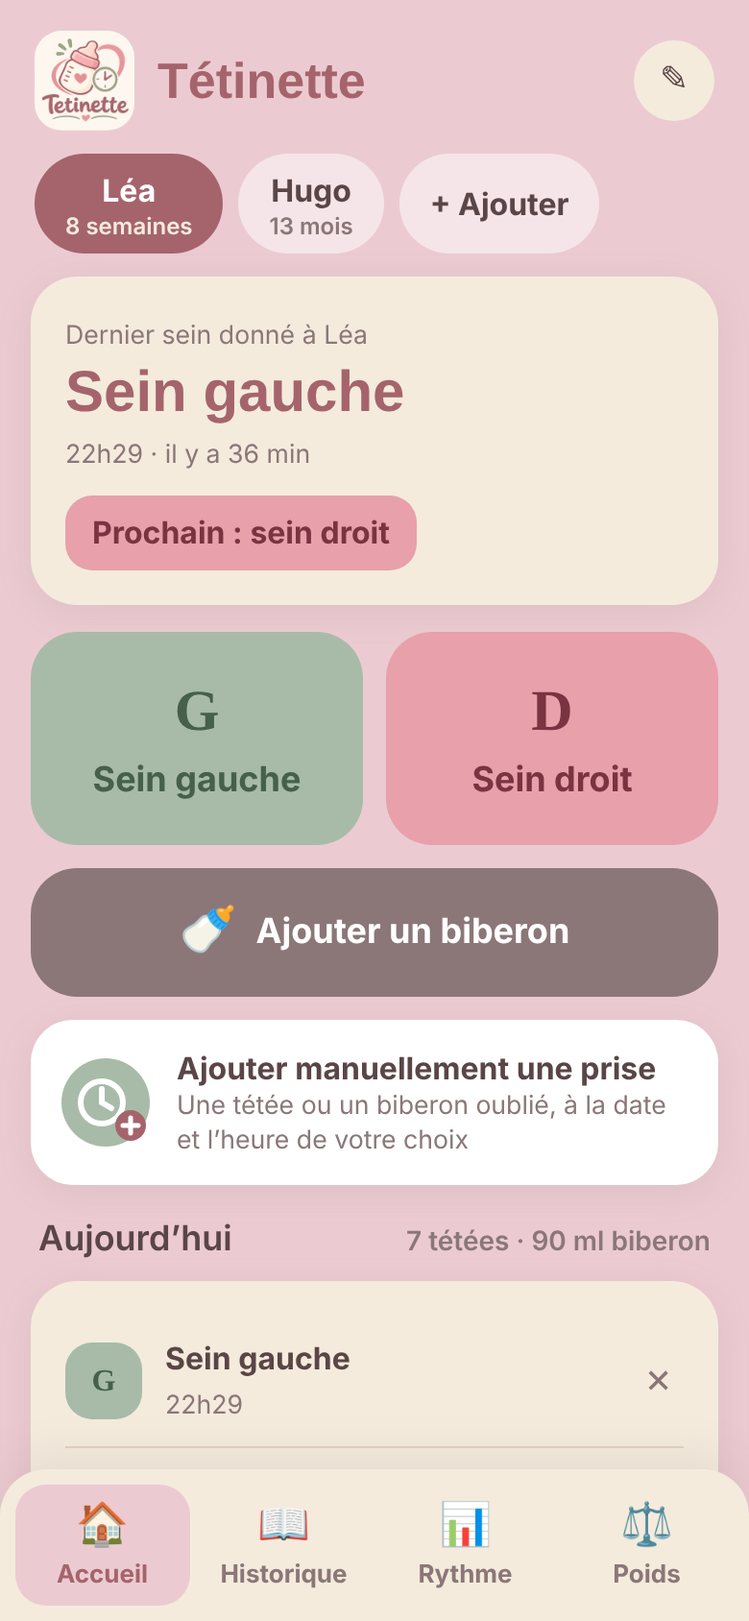
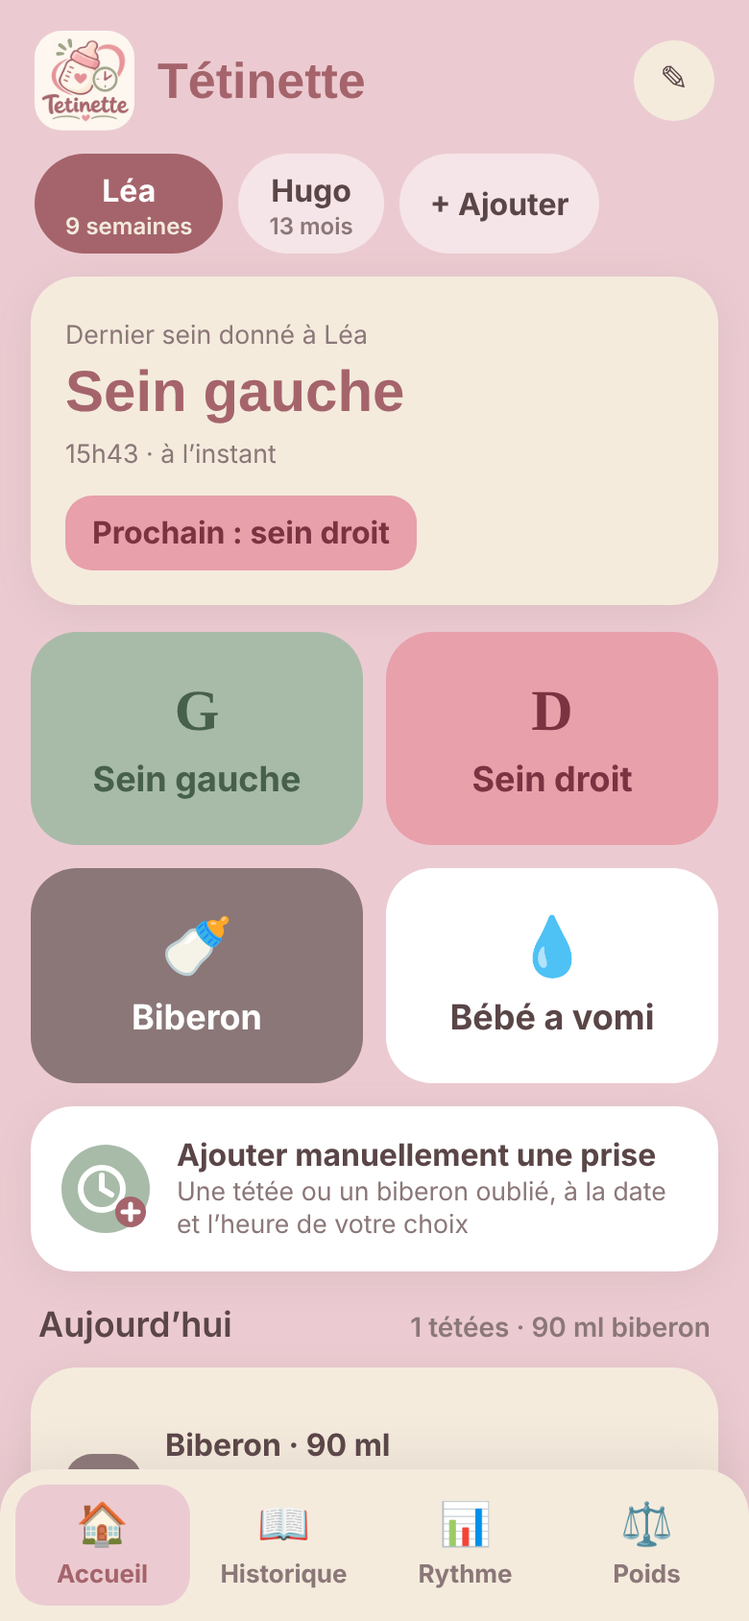
Add files via upload

Changed region(s): [[0.0308, 0.5237, 0.9846, 0.9242], [0.2154, 0.2773, 0.4, 0.3081], [0.0923, 0.2773, 0.1846, 0.3081]]

diff --git a/app/static/index.html b/app/static/index.html
@@ -32,7 +32,7 @@ button{font:inherit;border:0;cursor:pointer;color:inherit}
 .feed{border-radius:24px;padding:20px 10px;font-weight:700;font-size:18px;display:flex;flex-direction:column;align-items:center;gap:2px}
 .feed span{font-size:30px;font-family:Grandstander}
 .feed:active{transform:scale(.97)}
-.L{background:var(--sage);color:var(--sagedk)}.R{background:var(--pink);color:#7A3340}.B{background:var(--taupe);color:#fff}
+.L{background:var(--sage);color:var(--sagedk)}.R{background:var(--pink);color:#7A3340}.B{background:var(--taupe);color:#fff}.V{background:#fff;color:var(--ink)}
 .wide{grid-column:1/3;flex-direction:row;justify-content:center;gap:10px;padding:16px}
 .wide span{font-size:24px}
 .manual{width:100%;display:flex;align-items:center;gap:14px;text-align:left;background:var(--white);border-radius:22px;padding:14px 16px;margin-bottom:6px;box-shadow:0 4px 18px #8b777822}
@@ -74,8 +74,8 @@ nav button.on{background:var(--bg);color:var(--wine)}
 .wchart{border:2px solid #ffffff80;border-radius:24px;padding:10px 6px 6px;margin-bottom:12px}
 .wchart svg{width:100%;height:auto;display:block}
 .wchart .cap{text-align:center;font-weight:700;padding:4px 0 6px}
-input{font:inherit;width:100%;padding:12px 14px;border-radius:14px;border:2px solid var(--line);background:#fff;color:var(--ink)}
-input:focus,button:focus-visible{outline:3px solid var(--wine);outline-offset:2px}
+input,textarea{font:inherit;width:100%;padding:12px 14px;border-radius:14px;border:2px solid var(--line);background:#fff;color:var(--ink)}
+input:focus,textarea:focus,button:focus-visible{outline:3px solid var(--wine);outline-offset:2px}
 label{display:block;font-weight:700;margin:12px 0 6px;font-size:14px;color:var(--taupe)}
 .go{width:100%;margin-top:16px;padding:15px;border-radius:18px;background:var(--wine);color:#fff;font-weight:700;font-size:17px}
 .link{background:none;color:var(--taupe);text-decoration:underline;display:block;margin:10px auto 0;font-weight:600}
@@ -87,6 +87,11 @@ label{display:block;font-weight:700;margin:12px 0 6px;font-size:14px;color:var(-
 .welcome{text-align:center}.welcome img{width:130px;border-radius:30px;margin-bottom:8px}.welcome p{color:var(--taupe)}
 #toast{position:fixed;left:50%;bottom:100px;transform:translateX(-50%);background:var(--ink);color:#fff;padding:12px 18px;border-radius:18px;display:none;gap:14px;align-items:center;z-index:9;white-space:nowrap}
 #toast button{background:none;color:var(--bg);text-decoration:underline;font-weight:700}
+.note{display:block;font-style:italic;color:var(--taupe);margin-top:2px;word-break:break-word}
+.lvs{display:grid;grid-template-columns:1fr 1fr;gap:8px}
+.lv{background:#e9dccb;border-radius:14px;padding:10px 6px;font-weight:700;display:flex;flex-direction:column;gap:2px;align-items:center;font-size:14px}
+.lv.on{outline:3px solid var(--wine);background:#fff}
+.lv i{font-style:normal;letter-spacing:2px;color:var(--wine);font-size:12px}.lv s{text-decoration:none;opacity:.25}
 .empty{color:var(--taupe);text-align:center;padding:16px 0}
 @media (prefers-reduced-motion:no-preference){.feed,.go{transition:transform .12s}}
 </style>
@@ -108,6 +113,8 @@ const today=()=>ymd(new Date());
 const dayKey=ts=>ts.slice(0,10), hhmm=ts=>ts.slice(11,16).replace(':','h');
 const fmtD=k=>{const d=new Date(k+'T12:00');return`${d.getDate()} ${MOIS[d.getMonth()]}`};
 const fmtDY=k=>`${fmtD(k)} ${k.slice(0,4)}`;
+const E=s=>String(s??'').replace(/[&<>"']/g,c=>({'&':'&amp;','<':'&lt;','>':'&gt;','"':'&quot;',"'":'&#39;'}[c]));
+const LV=['','Une régurgitation','Petite quantité','Quantité moyenne','Grande quantité'];
 const sideName=s=>s==='L'?'Sein gauche':'Sein droit';
 function dayLabel(k){if(k===today())return"Aujourd’hui";if(k===addD(today(),-1))return"Hier";
  return new Date(k+'T12:00').toLocaleDateString('fr-FR',{weekday:'long'})+' '+fmtD(k)}
@@ -133,33 +140,32 @@ async function load(){S=await (await fetch('/api/data')).json();
 async function api(m,u,b){const r=await fetch(u,{method:m,headers:{'Content-Type':'application/json'},body:b?JSON.stringify(b):undefined});return r.json()}
 function pick(id){B=id;try{localStorage.setItem('baby',id)}catch(e){}Rt.sel=null;Rt.scroll=null;Wt.sel=null;render()}
 
-const IC={L:'G',R:'D',B:'🍼'};
-const kindOf=e=>e.kind==='bottle'?'B':e.side;
+const IC={L:'G',R:'D',B:'🍼',V:'💧'};
+const kindOf=e=>e.kind==='bottle'?'B':e.kind==='vomit'?'V':e.side;
 function evRow(e){const k=kindOf(e);
- const title=e.kind==='bottle'?`Biberon · ${e.ml} ml`:sideName(e.side);
+ const title=e.kind==='bottle'?`Biberon · ${e.ml} ml`:e.kind==='vomit'?`Vomi · ${LV[e.level].toLowerCase()}`:sideName(e.side);
  const sub=e.kind==='bottle'?(e.milk==='maternel'?'Lait maternel':'Lait artificiel'):'';
- return`<div class="row"><div class="dot ${k}">${IC[k]}</div><div class="t"><b>${title}</b><small>${hhmm(e.ts)}${sub?' · '+sub:''}</small></div><button class="x" aria-label="Supprimer" onclick="del(${e.id})">×</button></div>`}
+ return`<div class="row"><div class="dot ${k}">${IC[k]}</div><div class="t" role="button" tabindex="0" onclick="openEdit(${e.id})" style="cursor:pointer"><b>${title}</b><small>${hhmm(e.ts)}${sub?' · '+sub:''}</small>${e.note?`<span class="note">${E(e.note)}</span>`:''}</div><button class="x" aria-label="Supprimer" onclick="del(${e.id})">×</button></div>`}
 async function del(id){if(confirm('Supprimer cette entrée ?')){await api('DELETE','/api/events/'+id);load()}}
 async function delW(id){if(confirm('Supprimer cette pesée ?')){await api('DELETE','/api/weights/'+id);Wt.sel=null;load()}}
-function toast(msg,undoId){const t=$('#toast');t.innerHTML=`${msg}${undoId?'<button id="undo">Annuler</button>':''}`;t.style.display='flex';
+function toast(msg,undoId){const t=$('#toast');t.innerHTML=`${msg}${undoId?'<button id="undo">Annuler</button><button id="note">Ajouter une note</button>':''}`;t.style.display='flex';
+ if(undoId)$('#note').onclick=()=>{t.style.display='none';openEdit(undoId)};
  if(undoId)$('#undo').onclick=async()=>{await api('DELETE','/api/events/'+undoId);t.style.display='none';load()};
- clearTimeout(t._h);t._h=setTimeout(()=>t.style.display='none',5000)}
-async function quick(side){await api('POST','/api/events',{ts:iso(new Date()),kind:'breast',side,baby_id:B});await load();
- toast(`${sideName(side)} enregistré`,Math.max(...ev().map(e=>e.id)))}
+ clearTimeout(t._h);t._h=setTimeout(()=>t.style.display='none',6500)}
 
 function header(){const b=baby();
  return`<div class="top"><img src="/logo.png" alt=""><h1>Tétinette</h1>${b?`<button class="icon" aria-label="Modifier le profil" onclick="babySheet(${b.id})">✎</button>`:''}</div>
- <div class="chips">${S.babies.map(x=>`<button class="chip ${x.id===B?'on':''}" onclick="pick(${x.id})">${x.name}${x.birth?`<small>${ageStr(x.birth)}</small>`:''}</button>`).join('')}<button class="chip" onclick="babySheet(null)">+ Ajouter</button></div>`}
+ <div class="chips">${S.babies.map(x=>`<button class="chip ${x.id===B?'on':''}" onclick="pick(${x.id})">${E(x.name)}${x.birth?`<small>${ageStr(x.birth)}</small>`:''}</button>`).join('')}<button class="chip" onclick="babySheet(null)">+ Ajouter</button></div>`}
 
 function home(){
  const feeds=ev().filter(e=>e.kind==='breast'),last=feeds[0],td=today(),te=ev().filter(e=>dayKey(e.ts)===td);
- const ml=sum(te.filter(e=>e.kind==='bottle'),e=>e.ml),n=baby()?.name||'';
+ const ml=sum(te.filter(e=>e.kind==='bottle'),e=>e.ml),n=E(baby()?.name);
  let h='';
  if(last){const nx=last.side==='L'?'R':'L';
   h+=`<div class="card last"><small>Dernier sein donné à ${n}</small><div class="big">${sideName(last.side)}</div><small>${hhmm(last.ts)} · ${ago(last.ts)}</small><br><span class="next ${nx}">Prochain : ${sideName(nx).toLowerCase()}</span></div>`}
  else h+=`<div class="card empty">Aucune tétée pour ${n}. Touchez un bouton pour commencer.</div>`;
- h+=`<div class="btns"><button class="feed L" onclick="quick('L')"><span>G</span>Sein gauche</button><button class="feed R" onclick="quick('R')"><span>D</span>Sein droit</button>
- <button class="feed B wide" onclick="openSheet('B')"><span>🍼</span>Ajouter un biberon</button></div>
+ h+=`<div class="btns"><button class="feed L" onclick="openSheet('L')"><span>G</span>Sein gauche</button><button class="feed R" onclick="openSheet('R')"><span>D</span>Sein droit</button>
+ <button class="feed B" onclick="openSheet('B')"><span>🍼</span>Biberon</button><button class="feed V" onclick="openSheet('V')"><span>💧</span>Bébé a vomi</button></div>
  <button class="manual" onclick="openSheet('L')"><svg viewBox="0 0 46 46"><circle cx="23" cy="23" r="23" fill="#A8BBA9"/><circle cx="21" cy="23" r="11" fill="none" stroke="#fff" stroke-width="3"/><path d="M21 16v7l5 3" fill="none" stroke="#fff" stroke-width="3" stroke-linecap="round"/><circle cx="36" cy="35" r="8" fill="#A5646B"/><path d="M36 31v8M32 35h8" stroke="#fff" stroke-width="2.5" stroke-linecap="round"/></svg>
  <span><b>Ajouter manuellement une prise</b><small>Une tétée ou un biberon oublié, à la date et l’heure de votre choix</small></span></button>
  <div class="day">Aujourd’hui<small>${te.filter(e=>e.kind==='breast').length} tétées${ml?` · ${ml} ml biberon`:''}</small></div>
@@ -189,24 +195,25 @@ function buckets(mode){const t=today(),out=[];
   b.L=b.es.filter(e=>e.side==='L').length;b.R=b.es.filter(e=>e.side==='R').length;
   b.mat=sum(b.es.filter(e=>e.milk==='maternel'),e=>e.ml);b.art=sum(b.es.filter(e=>e.milk==='artificiel'),e=>e.ml)});
  return out}
-function summary(es,nd){const br=es.filter(e=>e.kind==='breast'),g=gaps(es);
+function summary(all,nd){const es=all.filter(e=>e.kind!=='vomit'),vo=all.filter(e=>e.kind==='vomit'),br=es.filter(e=>e.kind==='breast'),g=gaps(es);
+ const vl=vo.length?`<div class="soft" style="margin:-4px 4px 12px">💧 ${vo.length} vomi${vo.length>1?'s':''} (${[1,2,3,4].filter(l=>vo.some(v=>v.level===l)).map(l=>vo.filter(v=>v.level===l).length+' · '+LV[l].toLowerCase()).join(', ')})</div>`:'';
  const L=br.filter(e=>e.side==='L').length,R=br.length-L,mat=sum(es.filter(e=>e.milk==='maternel'),e=>e.ml),art=sum(es.filter(e=>e.milk==='artificiel'),e=>e.ml);
  const c=(v,l)=>`<div class="stat"><div class="big">${v}</div><small>${l}</small></div>`;
  return`<div class="stats">${c(br.length,`tétées (G ${L} · D ${R})`)}${c(mat+art+' ml',`biberons (mat. ${mat} · art. ${art})`)}${c(g.length?dur(avg(g)):'–','écart moyen entre prises')}
- ${nd>1?c((br.length/nd).toFixed(1),'tétées par jour')+c(((mat+art)/nd).toFixed(0)+' ml','biberon par jour')+c(g.length?dur(Math.max(...g)):'–','plus longue pause'):c(es.length,'prises au total')+c(g.length?dur(Math.max(...g)):'–','plus longue pause')+c(es.length?hhmm(es.reduce((a,e)=>e.ts>a.ts?e:a).ts):'–','dernière prise')}</div>`}
+ ${nd>1?c((br.length/nd).toFixed(1),'tétées par jour')+c(((mat+art)/nd).toFixed(0)+' ml','biberon par jour')+c(g.length?dur(Math.max(...g)):'–','plus longue pause'):c(es.length,'prises au total')+c(g.length?dur(Math.max(...g)):'–','plus longue pause')+c(es.length?hhmm(es.reduce((a,e)=>e.ts>a.ts?e:a).ts):'–','dernière prise')}</div>${vl}`}
 
 function rhythm(){
  const modes=[['day','Jour'],['days','Jours'],['weeks','Semaines'],['months','Mois']];
  let h=`<div class="seg">${modes.map(([k,l])=>`<button class="${Rt.mode===k?'on':''}" onclick="setMode('${k}')">${l}</button>`).join('')}</div>`;
  if(Rt.mode==='day'){
   const k=Rt.date,es=ev().filter(e=>dayKey(e.ts)===k).sort((a,b)=>a.ts<b.ts?-1:1);
-  const hrs=[...Array(24)].map((_,i)=>es.filter(e=>+e.ts.slice(11,13)===i));
+  const hrsA=[...Array(24)].map((_,i)=>es.filter(e=>+e.ts.slice(11,13)===i)),hrs=hrsA.map(x=>x.filter(e=>e.kind!=='vomit'));
   const max=Math.max(2,...hrs.map(x=>x.length));
   h+=`<div class="nav"><button aria-label="Jour précédent" onclick="Rt.date=addD(Rt.date,-1);Rt.sel=null;render()">‹</button><b>${dayLabel(k)}</b><button aria-label="Jour suivant" ${k>=today()?'disabled':''} onclick="Rt.date=addD(Rt.date,1);Rt.sel=null;render()">›</button></div>
   <div class="chart"><div class="bars" style="gap:2px;width:100%">${hrs.map((x,i)=>{const L=x.filter(e=>e.side==='L').length,R=x.filter(e=>e.side==='R').length,Bn=x.filter(e=>e.kind==='bottle').length;
    return`<button class="col ${Rt.sel===i?'on':''}" style="flex:1;width:auto;min-width:0" aria-label="${i} h : ${x.length} prises" onclick="Rt.sel=Rt.sel===${i}?null:${i};render()"><em style="font-size:11px">${x.length||''}</em>${stackHTML([[L,COL.L],[R,COL.R],[Bn,COL.art]],max,120)}<span>${i%3===0?i+'h':'·'}</span></button>`}).join('')}</div>
   <div class="legend"><span><b style="background:${COL.L}"></b>Sein G</span><span><b style="background:${COL.R}"></b>Sein D</span><span><b style="background:${COL.art}"></b>Biberon</span></div></div>`;
-  const sel=Rt.sel!==null?hrs[Rt.sel]:es;
+  const sel=Rt.sel!==null?hrsA[Rt.sel]:es;
   h+=Rt.sel!==null?`<div class="day">De ${Rt.sel} h à ${Rt.sel+1} h<small>touchez la barre pour revenir à la journée</small></div>`:`<div class="day">Résumé de la journée</div>${summary(es,1)}`;
   h+=`<div class="card">${sel.length?sel.map(evRow).join(''):'<div class="empty">Aucune prise sur cette période.</div>'}</div>`;
   return h}
@@ -242,7 +249,7 @@ function wchart(w,bb,age){
  return s+`</svg><div class="cap">${cur.g} g · ${fmtDY(cur.d)}${ageTxt}</div>`}
 function weight(){
  const w=wt(),bb=baby(),age=Wt.mode==='age'&&bb?.birth;
- let h=`<h2 class="day" style="font-size:24px">Poids de ${bb?.name||'bébé'}</h2><div class="seg"><button class="${!age?'on':''}" onclick="Wt.mode='date';render()">Par date</button><button class="${age?'on':''}" onclick="${bb?.birth?"Wt.mode='age';render()":`babySheet(${B})`}">Par âge (mois)</button></div>`;
+ let h=`<h2 class="day" style="font-size:24px">Poids de ${E(bb?.name||'bébé')}</h2><div class="seg"><button class="${!age?'on':''}" onclick="Wt.mode='date';render()">Par date</button><button class="${age?'on':''}" onclick="${bb?.birth?"Wt.mode='age';render()":`babySheet(${B})`}">Par âge (mois)</button></div>`;
  if(Wt.mode==='age'&&!bb?.birth)Wt.mode='date';
  h+=`<div class="wchart">${wchart(w,bb,age)}</div>
  <div class="card"><label style="margin-top:0">Date de la pesée</label><input type="date" id="wd" value="${today()}">
@@ -258,24 +265,34 @@ async function addW(){const day=$('#wd').value,g=$('#wg').value;if(!day||!g)retu
 const sh=()=>$('#sheet');
 function closeSheet(){sh().classList.remove('open')}
 sh().onclick=e=>{if(e.target.id==='sheet'&&!sh().dataset.forced)closeSheet()};
-function openSheet(k){sheetKind=k;drawSheet();delete sh().dataset.forced;sh().classList.add('open')}
-function drawSheet(){const keep=$('#sdt')?.value||iso(new Date());
- $('#sheetbody').innerHTML=`<h2>Ajouter une prise</h2><div class="soft">Pour ${baby()?.name||''}</div><label>Type</label>
- <div class="seg"><button class="${sheetKind==='L'?'on':''}" onclick="sheetKind='L';drawSheet()">Sein G</button><button class="${sheetKind==='R'?'on':''}" onclick="sheetKind='R';drawSheet()">Sein D</button><button class="${sheetKind==='B'?'on':''}" onclick="sheetKind='B';drawSheet()">Biberon</button></div>
- <label>Date et heure</label><input type="datetime-local" id="sdt" value="${keep}">
- ${sheetKind==='B'?`<label>Lait</label><div class="seg"><button id="mm" class="${milk==='maternel'?'on':''}" onclick="pickMilk('maternel')">Maternel</button><button id="ma" class="${milk==='artificiel'?'on':''}" onclick="pickMilk('artificiel')">Artificiel</button></div>
- <label>Quantité (ml)</label><input type="number" id="sml" inputmode="numeric" placeholder="ex. 90">`:''}
- <button class="go" onclick="saveSheet()">Enregistrer</button><button class="link" onclick="closeSheet()">Fermer</button>`}
-function pickMilk(m){milk=m;$('#mm').classList.toggle('on',m==='maternel');$('#ma').classList.toggle('on',m==='artificiel')}
-async function saveSheet(){const ts=$('#sdt').value;if(!ts)return;
- if(sheetKind==='B'){const ml=parseInt($('#sml').value);if(!ml)return toast('Indiquez la quantité en ml');
-  await api('POST','/api/events',{ts,kind:'bottle',milk,ml,baby_id:B})}
- else await api('POST','/api/events',{ts,kind:'breast',side:sheetKind,baby_id:B});
- closeSheet();load()}
+let F={},editId=null;
+function openSheet(k){editId=null;sheetKind=k;F={ts:iso(new Date()),ml:'',note:'',level:null};drawSheet();delete sh().dataset.forced;sh().classList.add('open')}
+function openEdit(id){const e=S.events.find(x=>x.id===id);if(!e)return;editId=id;
+ sheetKind=e.kind==='bottle'?'B':e.kind==='vomit'?'V':e.side;milk=e.milk||'maternel';
+ F={ts:e.ts,ml:e.ml??'',note:e.note||'',level:e.level};drawSheet();delete sh().dataset.forced;sh().classList.add('open')}
+function readF(){const g=i=>$('#'+i);if(g('sdt'))F.ts=g('sdt').value;if(g('sml'))F.ml=g('sml').value;if(g('snote'))F.note=g('snote').value}
+function setKind(k){readF();sheetKind=k;drawSheet()}
+function setLevel(l){readF();F.level=l;drawSheet()}
+function pickMilk(m){readF();milk=m;drawSheet()}
+function drawSheet(){const K=[['L','Sein G'],['R','Sein D'],['B','Biberon'],['V','Vomi']];
+ $('#sheetbody').innerHTML=`<h2>${editId?'Modifier la prise':'Ajouter une prise'}</h2><div class="soft">Pour ${E(baby()?.name)}</div><label>Type</label>
+ <div class="seg">${K.map(([k,l])=>`<button class="${sheetKind===k?'on':''}" onclick="setKind('${k}')">${l}</button>`).join('')}</div>
+ <label>Date et heure</label><input type="datetime-local" id="sdt" value="${F.ts}">
+ ${sheetKind==='B'?`<label>Lait</label><div class="seg"><button class="${milk==='maternel'?'on':''}" onclick="pickMilk('maternel')">Maternel</button><button class="${milk==='artificiel'?'on':''}" onclick="pickMilk('artificiel')">Artificiel</button></div>
+ <label>Quantité (ml)</label><input type="number" id="sml" inputmode="numeric" placeholder="ex. 90" value="${F.ml}">`:''}
+ ${sheetKind==='V'?`<label>Quantité vomie</label><div class="lvs">${[1,2,3,4].map(l=>`<button class="lv ${F.level===l?'on':''}" onclick="setLevel(${l})"><i>${'●'.repeat(l)}<s>${'●'.repeat(4-l)}</s></i>${LV[l]}</button>`).join('')}</div><div class="soft" style="font-size:13px;margin-top:8px">En cas de vomissements répétés, de fièvre ou si bébé semble mal, demandez conseil à un médecin.</div>`:''}
+ <label>Commentaire (facultatif)</label><textarea id="snote" rows="2" maxlength="300" placeholder="Ex. : tétée agitée, s’est endormi, hoquet…">${E(F.note)}</textarea>
+ <button class="go" onclick="saveSheet()">Enregistrer</button>${editId?'<button class="link danger" onclick="delFromSheet()">Supprimer cette prise</button>':''}<button class="link" onclick="closeSheet()">Fermer</button>`}
+async function saveSheet(){readF();if(!F.ts)return;const d={ts:F.ts,baby_id:B,note:F.note.trim()||null};
+ if(sheetKind==='B'){const ml=parseInt(F.ml);if(!ml)return toast('Indiquez la quantité en ml');Object.assign(d,{kind:'bottle',milk,ml,side:null,level:null})}
+ else if(sheetKind==='V'){if(!F.level)return toast('Choisissez la quantité vomie');Object.assign(d,{kind:'vomit',level:F.level,side:null,milk:null,ml:null})}
+ else Object.assign(d,{kind:'breast',side:sheetKind,milk:null,ml:null,level:null});
+ await api(editId?'PUT':'POST',editId?'/api/events/'+editId:'/api/events',d);closeSheet();load()}
+async function delFromSheet(){if(confirm('Supprimer cette prise ?')){await api('DELETE','/api/events/'+editId);closeSheet();load()}}
 
 function babySheet(id,forced){const b=S.babies.find(x=>x.id===id);
- $('#sheetbody').innerHTML=`${forced?'<div class="welcome"><img src="/logo.png" alt=""><h2>Bienvenue sur Tétinette</h2><p>Commençons par présenter votre bébé.</p></div>':`<h2>${b?'Profil de '+b.name:'Ajouter un bébé'}</h2>`}
- <label>Prénom</label><input id="bn" value="${b?.name||''}" placeholder="Prénom de bébé">
+ $('#sheetbody').innerHTML=`${forced?'<div class="welcome"><img src="/logo.png" alt=""><h2>Bienvenue sur Tétinette</h2><p>Commençons par présenter votre bébé.</p></div>':`<h2>${b?'Profil de '+E(b.name):'Ajouter un bébé'}</h2>`}
+ <label>Prénom</label><input id="bn" value="${E(b?.name)}" placeholder="Prénom de bébé">
  <label>Date de naissance</label><input type="date" id="bd" value="${b?.birth||''}">
  <div class="soft" style="font-size:13px;margin-top:6px">Elle permet de voir la courbe de poids par âge en mois.</div>
  <button class="go" onclick="saveBaby(${b?b.id:'null'})">Enregistrer</button>

diff --git a/app/server.py b/app/server.py
@@ -1,7 +1,10 @@
-import json, os, sqlite3, mimetypes
+import json, os, sqlite3, mimetypes, ssl, subprocess, ipaddress, sys
 from http.server import ThreadingHTTPServer, BaseHTTPRequestHandler
 
 DB = os.environ.get("DB_PATH", "/data/bebe.db")
+HTTPS = os.environ.get("HTTPS", "false").strip().lower() in ("1", "true", "yes", "on")
+CERT = os.environ.get("TLS_CERT", "/data/certs/cert.pem")
+KEY = os.environ.get("TLS_KEY", "/data/certs/key.pem")
 STATIC = os.path.join(os.path.dirname(os.path.abspath(__file__)), "static")
 os.makedirs(os.path.dirname(DB), exist_ok=True)
 
@@ -19,6 +22,9 @@ with db() as c:
     for t in ("events", "weights"):
         if "baby_id" not in [r["name"] for r in c.execute(f"PRAGMA table_info({t})")]:
             c.execute(f"ALTER TABLE {t} ADD COLUMN baby_id INTEGER")
+    for col, typ in (("note", "TEXT"), ("level", "INTEGER")):
+        if col not in [r["name"] for r in c.execute("PRAGMA table_info(events)")]:
+            c.execute(f"ALTER TABLE events ADD COLUMN {col} {typ}")
     if any(c.execute(f"SELECT 1 FROM {t} WHERE baby_id IS NULL").fetchone() for t in ("events", "weights")):
         bid = c.execute("INSERT INTO babies(name) VALUES('Bébé')").lastrowid
         for t in ("events", "weights"):
@@ -59,8 +65,8 @@ class H(BaseHTTPRequestHandler):
         d = self.body()
         with db() as c:
             if self.path == "/api/events":
-                c.execute("INSERT INTO events(ts,kind,side,milk,ml,baby_id) VALUES(?,?,?,?,?,?)",
-                          (d["ts"], d["kind"], d.get("side"), d.get("milk"), d.get("ml"), d["baby_id"]))
+                c.execute("INSERT INTO events(ts,kind,side,milk,ml,baby_id,note,level) VALUES(?,?,?,?,?,?,?,?)",
+                          (d["ts"], d["kind"], d.get("side"), d.get("milk"), d.get("ml"), d["baby_id"], d.get("note"), d.get("level")))
             elif self.path == "/api/weights":
                 c.execute("INSERT INTO weights(day,grams,baby_id) VALUES(?,?,?)", (d["day"], int(d["grams"]), d["baby_id"]))
             elif self.path == "/api/babies":
@@ -72,11 +78,15 @@ class H(BaseHTTPRequestHandler):
 
     def do_PUT(self):
         parts = self.path.strip("/").split("/")
-        if parts[:2] != ["api", "babies"] or len(parts) != 3:
+        if len(parts) != 3 or parts[0] != "api" or parts[1] not in ("babies", "events"):
             return self.send(404, {})
-        d = self.body()
+        d, i = self.body(), int(parts[2])
         with db() as c:
-            c.execute("UPDATE babies SET name=?, birth=? WHERE id=?", (d["name"], d.get("birth") or None, int(parts[2])))
+            if parts[1] == "babies":
+                c.execute("UPDATE babies SET name=?, birth=? WHERE id=?", (d["name"], d.get("birth") or None, i))
+            else:
+                c.execute("UPDATE events SET ts=?, kind=?, side=?, milk=?, ml=?, note=?, level=? WHERE id=?",
+                          (d["ts"], d["kind"], d.get("side"), d.get("milk"), d.get("ml"), d.get("note"), d.get("level"), i))
         self.send(200, {"ok": True})
 
     def do_DELETE(self):
@@ -93,6 +103,49 @@ class H(BaseHTTPRequestHandler):
 
     def log_message(self, *a): pass
 
+def ensure_cert():
+    """Génère un certificat auto-signé si aucun certificat n'est fourni."""
+    if os.path.isfile(CERT) and os.path.isfile(KEY):
+        return
+    for f in (CERT, KEY):
+        d = os.path.dirname(f)
+        try:
+            os.makedirs(d, exist_ok=True)
+        except OSError:
+            pass
+        if not os.access(d, os.W_OK):
+            sys.exit(f"ERREUR : certificat introuvable ({f}) et le dossier {d} n'est pas modifiable (volume en lecture seule ?).\n"
+                     "- Soit placez-y vos fichiers (TLS_CERT et TLS_KEY).\n"
+                     "- Soit retirez TLS_CERT, TLS_KEY et le volume ./certs du compose pour utiliser un certificat auto-signé.")
+    names = [n.strip() for n in os.environ.get("TLS_HOSTNAMES", "localhost").split(",") if n.strip()]
+    def san(n):
+        try:
+            ipaddress.ip_address(n); return "IP:" + n
+        except ValueError:
+            return "DNS:" + n
+    try:
+        _gen(names, san)
+    except FileNotFoundError:
+        sys.exit("ERREUR : 'openssl' est introuvable dans l'image. L'image n'a pas été reconstruite avec le Dockerfile à jour.\n"
+                 "Lancez : docker compose build --no-cache && docker compose up -d\n"
+                 "(ou fournissez votre propre certificat avec TLS_CERT et TLS_KEY).")
+    except subprocess.CalledProcessError as e:
+        sys.exit("ERREUR : génération du certificat impossible : " + e.stderr.decode(errors="replace"))
+    print("Certificat auto-signé généré dans", os.path.dirname(CERT))
+
+def _gen(names, san):
+    subprocess.run(["openssl", "req", "-x509", "-newkey", "rsa:2048", "-nodes", "-days", "825",
+                    "-keyout", KEY, "-out", CERT, "-subj", "/CN=" + names[0],
+                    "-addext", "subjectAltName=" + ",".join(san(n) for n in names)],
+                   check=True, capture_output=True)
+
 if __name__ == "__main__":
-    print("Tétinette écoute sur le port 8086")
-    ThreadingHTTPServer(("0.0.0.0", 8086), H).serve_forever()
+    srv = ThreadingHTTPServer(("0.0.0.0", 8086), H)
+    if HTTPS:
+        ensure_cert()
+        ctx = ssl.SSLContext(ssl.PROTOCOL_TLS_SERVER)
+        ctx.minimum_version = ssl.TLSVersion.TLSv1_2
+        ctx.load_cert_chain(CERT, KEY)
+        srv.socket = ctx.wrap_socket(srv.socket, server_side=True)
+    print("Tétinette écoute sur le port 8086 en", "HTTPS" if HTTPS else "HTTP")
+    srv.serve_forever()

diff --git a/README.md b/README.md
@@ -5,7 +5,7 @@
 <h1 align="center">Tétinette</h1>
 
 <p align="center">
-  <em>Le carnet de bord douillet des premiers mois : tétées, biberons et courbe de poids, sur votre propre serveur.</em>
+  <em>Le carnet de bord douillet des premiers mois : tétées, biberons, vomis et courbe de poids, sur votre propre serveur.</em>
 </p>
 
 <p align="center">
@@ -28,16 +28,18 @@ Elle tourne chez vous, dans un conteneur Docker. Vos données restent sur votre 
     <td align="center"><img src="docs/screenshots/rythme.png" alt="Écran Rythme" width="300"></td>
   </tr>
   <tr>
-    <td align="center"><sub>L'accueil : dernier sein donné et prochain conseillé, enregistrement en un appui</sub></td>
+    <td align="center"><sub>L'accueil : dernier sein donné et prochain conseillé, saisie en un appui</sub></td>
     <td align="center"><sub>Le rythme : tétées par semaine, détail au toucher</sub></td>
   </tr>
 </table>
 
 ## Fonctionnalités
 
-- **Tétées en un appui.** Un bouton « Sein gauche » et un bouton « Sein droit » enregistrent la prise à l'instant, avec un bouton *Annuler* pendant quelques secondes.
+- **Saisie rapide.** Un appui sur « Sein gauche » ou « Sein droit » ouvre la fenêtre de saisie avec le bon type déjà sélectionné et l'heure actuelle : il ne reste qu'à valider, ou à ajuster l'heure et ajouter un commentaire.
 - **Le bon sein à portée de vue.** L'accueil affiche le dernier sein donné, l'heure, le temps écoulé, et suggère le sein opposé pour la prochaine fois.
 - **Biberons.** Lait maternel ou artificiel, quantité en ml, date et heure modifiables.
+- **Commentaire sur chaque prise.** Une note libre sur une tétée, un biberon ou un vomi (« tétée agitée », « s'est endormie »…). Elle s'ajoute lors de la saisie. Toucher une ligne de l'historique permet de modifier ou supprimer la prise.
+- **Suivi des vomis.** Un bouton « Bébé a vomi » avec 4 niveaux de quantité (régurgitation, petite, moyenne, grande). Les vomis apparaissent dans l'historique et le résumé du rythme, sans fausser le nombre de tétées ni les écarts entre prises.
 - **Saisie manuelle.** Pour ajouter une tétée ou un biberon oublié, à la date et à l'heure de votre choix.
 - **Plusieurs bébés.** Jumeaux, fratrie : chaque bébé a son profil (prénom, date de naissance), son historique, son rythme et ses pesées.
 - **Rythme de la journée et au-delà.** Vue *Jour* heure par heure, puis vues *Jours*, *Semaines* et *Mois* en diagrammes en bâtons que l'on fait défiler. Un appui sur une barre affiche le détail : nombre de tétées, répartition gauche/droite, millilitres, écart moyen entre deux prises, plus longue pause.
@@ -49,7 +51,7 @@ Elle tourne chez vous, dans un conteneur Docker. Vos données restent sur votre 
 Il vous faut simplement [Docker](https://docs.docker.com/get-docker/) avec le plugin Compose.
 
 ```bash
-git clone https://github.com/florent6901/tetinette.git
+git clone https://github.com/<votre-utilisateur>/tetinette.git
 cd tetinette
 docker compose up -d --build
 ```
@@ -61,7 +63,7 @@ Ouvrez ensuite **http://IP-DU-SERVEUR:8086** sur votre téléphone ou votre ordi
 ```bash
 docker build -t tetinette .
 docker run -d --name tetinette --restart unless-stopped \
-  -p 8086:8086 -v "$(pwd)/data:/data" tetinette
+  -p 8086:8086 -v "$(pwd)/data:/data" -e HTTPS=false tetinette
 ```
 
 ## Configuration
@@ -69,8 +71,27 @@ docker run -d --name tetinette --restart unless-stopped \
 | Réglage | Où | Valeur par défaut |
 |---|---|---|
 | Port d'accès | `docker-compose.yml` → `ports` (ex. `"8080:8086"`) | `8086` |
+| HTTPS | `docker-compose.yml` → `HTTPS` | `false` |
+| Noms/IP du certificat auto-signé | `docker-compose.yml` → `TLS_HOSTNAMES` | `localhost` |
+| Certificat personnel | `TLS_CERT` et `TLS_KEY` | certificat auto-signé dans `data/certs/` |
 | Fuseau horaire | `Dockerfile` → `ENV TZ=` | `Europe/Paris` |
 | Emplacement de la base | variable d'environnement `DB_PATH` | `/data/bebe.db` |
+
+## Activer le HTTPS
+
+Dans `docker-compose.yml`, passez le paramètre `HTTPS` à `true` :
+
+```yaml
+environment:
+  - HTTPS=true
+  - TLS_HOSTNAMES=localhost,192.168.1.50   # nom(s) et IP par lesquels vous accédez à l'app
+```
+
+Relancez avec `docker compose up -d --build`, puis ouvrez **https://IP-DU-SERVEUR:8086**. Le même port sert alors en HTTPS (le HTTP simple n'y répond plus).
+
+- **Par défaut**, un certificat auto-signé est généré au premier démarrage et conservé dans `data/certs/`. Les échanges sont chiffrés, mais le navigateur affiche un avertissement la première fois : acceptez l'exception. Si vous changez `TLS_HOSTNAMES`, supprimez le dossier `data/certs/` pour régénérer le certificat.
+- **Avec votre propre certificat** (Let's Encrypt, autorité interne…), montez-le dans le conteneur et renseignez `TLS_CERT` et `TLS_KEY`, comme indiqué en commentaire dans `docker-compose.yml`.
+- **Derrière un reverse proxy** (Nginx Proxy Manager, Traefik, Caddy), laissez `HTTPS=false` et laissez le proxy gérer le certificat.
 
 ## Vos données
 
@@ -81,7 +102,7 @@ Tout est stocké dans une base SQLite unique, dans le dossier `data/` créé à 
 
 ## Sécurité
 
-Tétinette n'a **pas d'authentification** : elle est conçue pour un réseau local. Si vous l'exposez sur Internet, placez-la derrière un reverse proxy avec authentification (Nginx Proxy Manager, Traefik, Caddy…) ou derrière un VPN.
+Tétinette n'a **pas d'authentification** : elle est conçue pour un réseau local. Le HTTPS chiffre les échanges mais ne remplace pas un mot de passe. Si vous l'exposez sur Internet, placez-la derrière un reverse proxy avec authentification (Nginx Proxy Manager, Traefik, Caddy…) ou derrière un VPN.
 
 ## Structure du projet
 
@@ -106,7 +127,7 @@ tetinette/
 
 ## Sous le capot
 
-- **Backend :** Python 3, uniquement la bibliothèque standard (`http.server`, `sqlite3`). Rien à installer, une image Docker de quelques dizaines de Mo.
+- **Backend :** Python 3, uniquement la bibliothèque standard (`http.server`, `sqlite3`, `ssl`). Aucune dépendance Python ; `openssl` n'est utilisé que pour générer le certificat auto-signé.
 - **Frontend :** une page unique en HTML, CSS et JavaScript sans framework ni étape de build. Polices Grandstander et Nunito chargées depuis Google Fonts, avec des polices de secours si le téléphone est hors ligne.
 - **Graphiques :** diagrammes en HTML/CSS et courbe de poids en SVG, sans bibliothèque.
 
@@ -115,7 +136,8 @@ tetinette/
 | Méthode | Route | Rôle |
 |---|---|---|
 | `GET` | `/api/data` | Bébés, prises et pesées |
-| `POST` | `/api/events` | Ajouter une tétée ou un biberon |
+| `POST` | `/api/events` | Ajouter une tétée, un biberon ou un vomi |
+| `PUT` | `/api/events/<id>` | Modifier une prise (heure, quantité, commentaire…) |
 | `DELETE` | `/api/events/<id>` | Supprimer une prise |
 | `POST` | `/api/weights` | Ajouter une pesée |
 | `DELETE` | `/api/weights/<id>` | Supprimer une pesée |
@@ -130,6 +152,7 @@ tetinette/
 - Suivi des couches, du sommeil, de la taille
 - Export CSV
 - Protection par mot de passe
+- Rechargement automatique du certificat
 
 Les suggestions et les contributions sont les bienvenues.
 
